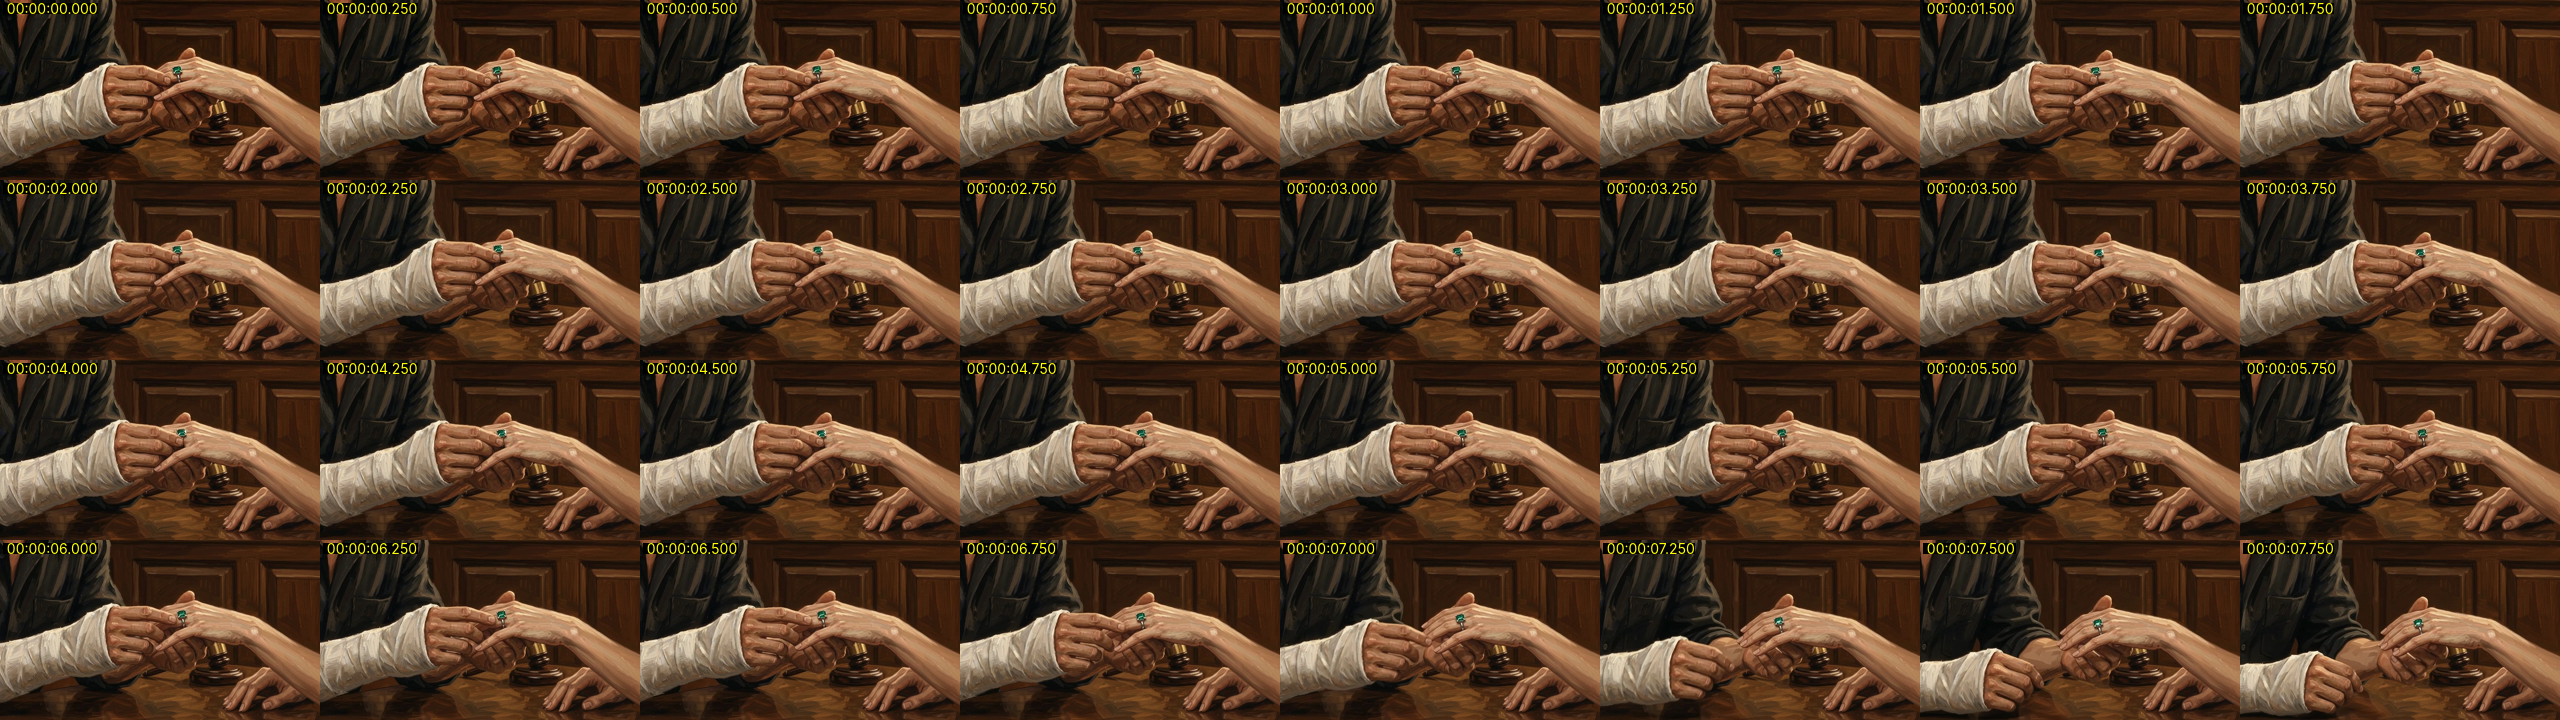
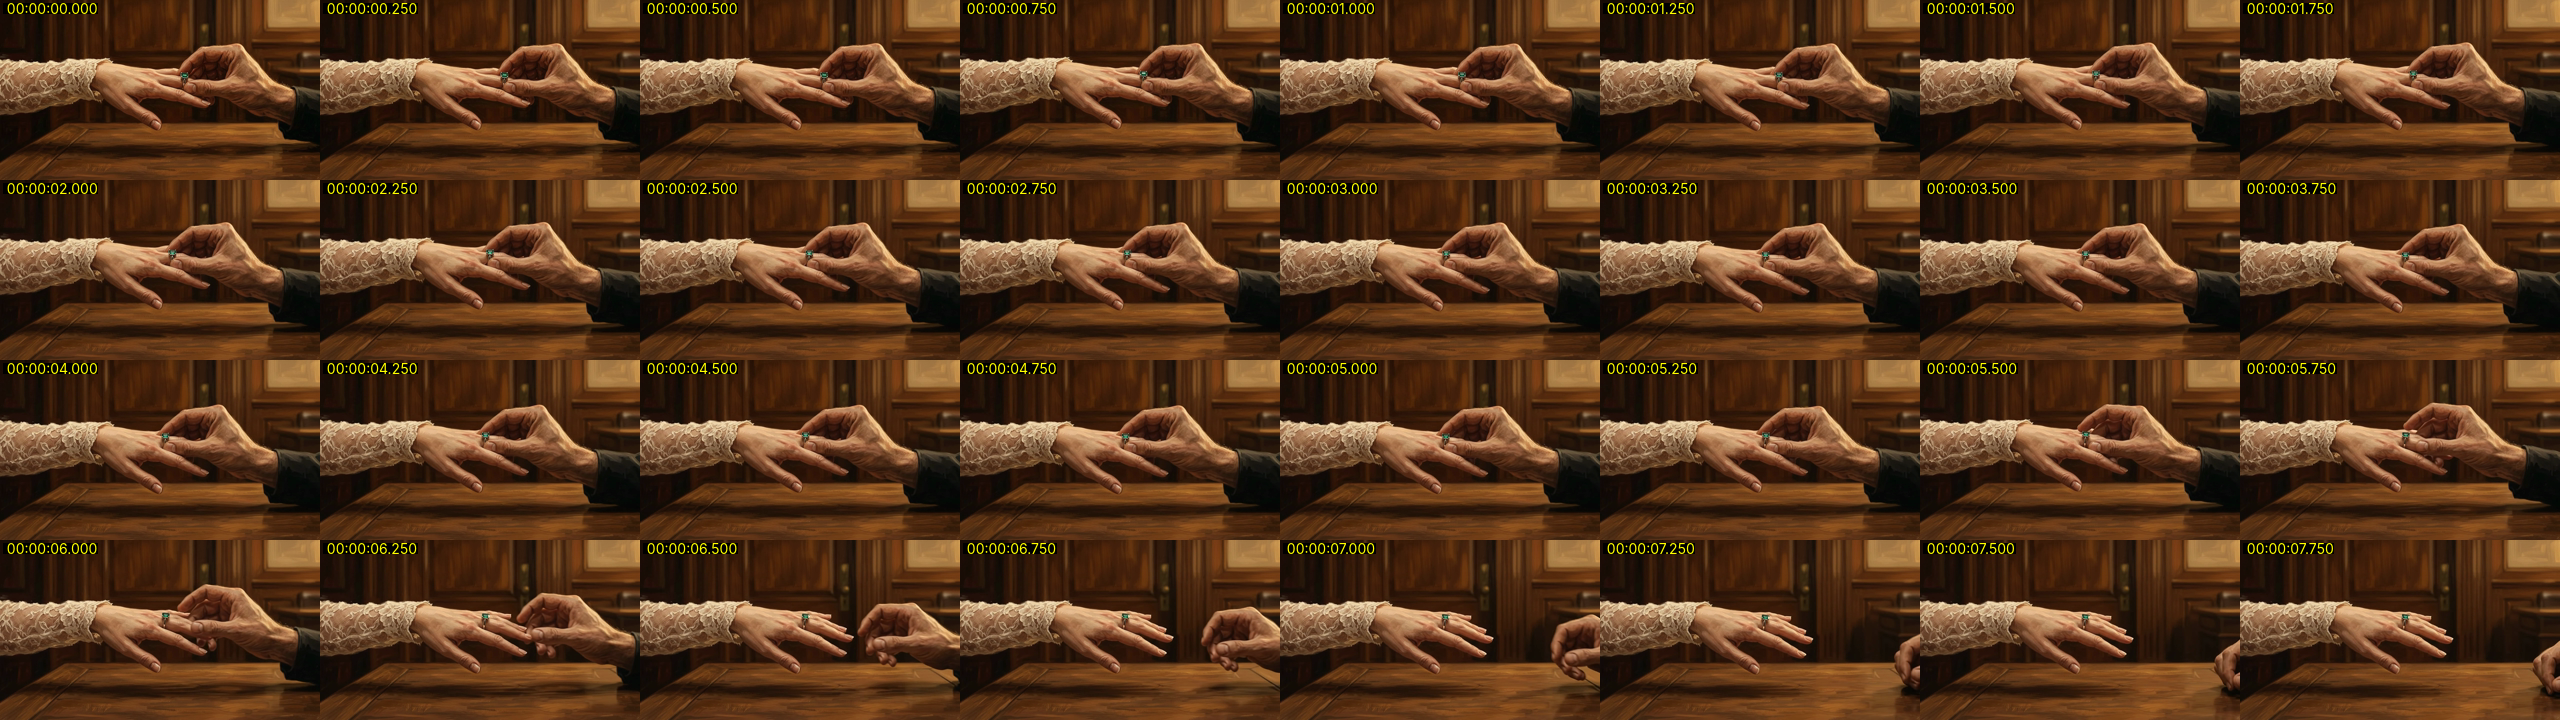
F32_R1 approved (left hand, crop f32_ring); picture gate open 70/70; final render held for new audio; read-only ElevenLabs audit
Claude-Session: https://claude.ai/code/session_017SGPJz85aEadLmW7Y22EJs

diff --git a/film20/remotion_film/tools/test_film.py b/film20/remotion_film/tools/test_film.py
@@ -64,8 +64,8 @@ jobs = {j["job_id"] for j in json.loads((ROOT / "edition20/flow_jobs.json").read
 placed = {c["shot"] for c in T["cuts"] if c.get("kind") == "flow_job"}
 check("T6 every placed job budgeted, every budgeted job placed, ledger valid",
       vb.returncode == 0 and placed == jobs and len(jobs) == 70, vb.stdout.strip().splitlines()[-1])
-check("T7 Final gate CLOSED now (pictures pending), narration complete", not g["final_export_allowed"] and not g["audio_missing"]
-      and g["visual_shots_pending"], f"narration missing {g['audio_missing']}, {len(g['visual_shots_pending'])} shots pending")
+check("T7 Final gate state is consistent: open iff nothing pending/unresolved/problem, narration complete",
+      not g["audio_missing"] and g["final_export_allowed"] == (not g["visual_shots_pending"] and not g["unresolved_frames"] and not g["problems"]), f"narration missing {g['audio_missing']}, {len(g['visual_shots_pending'])} shots pending")
 prov = json.loads((ROOT / "edition20/pickups/pickup_edits.json").read_text())
 check("T7b four edited lines verified; originals untouched",
       sorted(prov["ready"]) == ["n005", "n145", "n148", "n154"] and not prov["blockers"]

diff --git a/film20/remotion_film/edition20/review/REVIEW.md b/film20/remotion_film/edition20/review/REVIEW.md
@@ -33,7 +33,7 @@
 | F29 | sal_arrives | approved | 8.00 | 0.01 | none / verdict: Omni 1.1 Flash 720p Batch A, 12 cr; generated audio muted (Flow audio never used) | usable range 0.0-8.0 s | F29_review.png |
 | F30 | nico_desk | approved | 8.00 | 0.0 | none / verdict: Omni 1.1 Flash 720p Batch B, 12 cr; generated audio muted | usable range 0.0-8.0 s | F30_review.png |
 | F31 | sal_exits | approved | 8.00 | 0.0 | none / verdict: Omni 1.1 Flash 720p Batch B, 12 cr; generated audio muted | usable range 0.0-8.0 s | F31_review.png |
-| F32 | emerald_on | rejected | 8.00 | 0.0 | none / verdict: ring goes onto her RIGHT hand (palm down, thumb on the far side); story: LEFT ring finger | F32_review.png |
+| F32 | emerald_on | approved | 8.00 | 0.0 | none / verdict: F32_R1 Omni 1.1 Flash 720p, 12 cr; take1 (Batch D) excluded: right-hand ring | usable range 0.0-8.0 s | crop f32_ring | F32_review.png |
 | F33 | steps | approved | 8.00 | 0.005 | none / verdict: Omni 1.1 Flash 720p, 12 cr; generated audio muted | usable range 0.0-8.0 s | F33_review.png |
 | F34 | kiss | approved | 8.00 | 0.0 | none / verdict: Omni 1.1 Flash 720p Batch B, 12 cr; generated audio muted | usable range 0.0-8.0 s | F34_review.png |
 | F35 | bolt | approved | 8.00 | 0.062 | none / verdict: Omni 1.1 Flash 720p, 12 cr; generated audio muted | usable range 0.0-8.0 s | F35_review.png |

diff --git a/film20/remotion_film/edition20/out/STATUS.md b/film20/remotion_film/edition20/out/STATUS.md
@@ -2,25 +2,25 @@
 
 - Runtime: **20:46.03** (1246.03 s, 29905 frames @ 24 fps) — measured
 - Speech in measured WAVs: 1184.931 s; pickup estimates: 0.000 s; pauses 57.60 s; lead-in 0.5 s + tail 3.0 s
-- Final export allowed: **NO**
+- Final export allowed: **YES**
 
 ## Picture coverage (every frame counted once; crossfade overlaps counted as source use only)
 | | Seconds | Share |
 |---|---:|---:|
-| (a) approved footage on disk | 837.3 | 67.2% |
+| (a) approved footage on disk | 851.0 | 68.3% |
 | (a) authored code scenes (finished) | 395.1 | 31.7% |
 | (b) conditional: planned Flow job, first use | 0.0 | 0.0% |
 | (b) conditional: planned Flow job, motivated reuse | 0.0 | 0.0% |
 | delivered but not yet reviewed | 0.0 | 0.0% |
-| **(c) unresolved / unplanned** | **13.7** | **1.1%** |
+| **(c) unresolved / unplanned** | **0.0** | **0.0%** |
 
 (b) assumes every job is delivered as an ~7.9 s file, passes review and the 0.2-7.7 s window is usable. It is NOT delivered picture.
 
 ## Missing narration (pickups)
 - none
 
-## Shots still required before Final (1)
-F32
+## Shots still required before Final (0)
+
 
 ## Reuse ledger (91 reuse occurrences)
 | Asset | Use # | Where | Treatment | Narrative reason |
